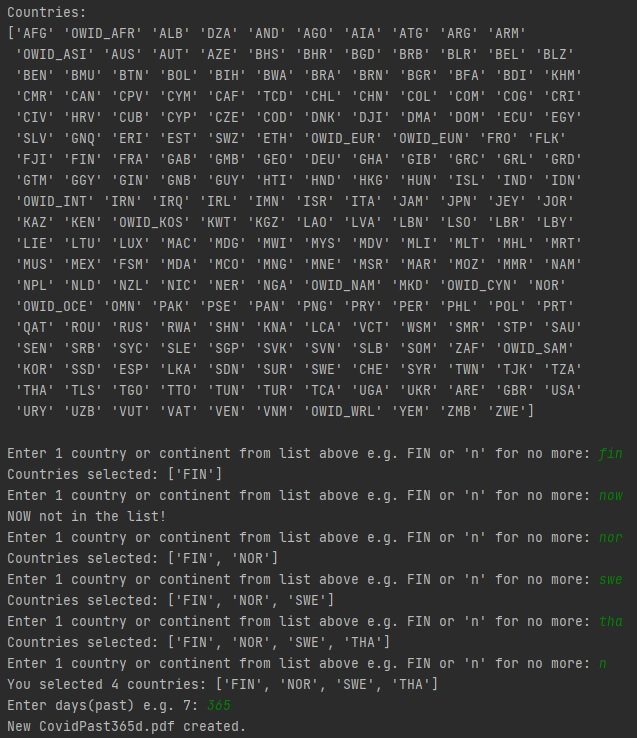
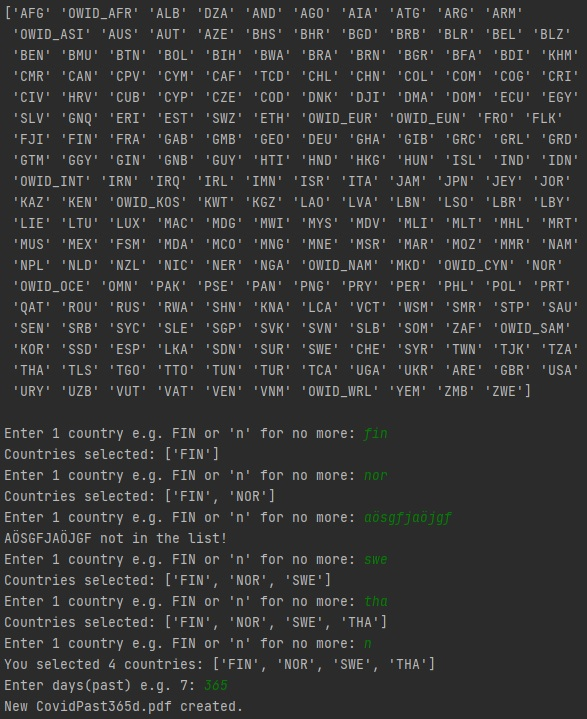
Removed continent option.

diff --git a/main.py b/main.py
@@ -6,9 +6,9 @@ from matplotlib.font_manager import FontProperties
 
 # Updated Data on COVID-19 (coronavirus) by Our World in Data
 # url = 'https://covid.ourworldindata.org/data/owid-covid-data.csv'
-# DF = pd.read_csv(url)
 
-# Read csv locally
+
+# Read csv
 DF = pd.read_csv('data/owid-covid-data.csv')
 
 
@@ -73,7 +73,7 @@ if __name__ == '__main__':
 
     while True:
         country_choice = str(input(
-            "Enter 1 country or continent from list above e.g. FIN or 'n' for no more: "
+            "Enter 1 country e.g. FIN or 'n' for no more: "
         )).upper()
         if country_choice == 'N':
             break
